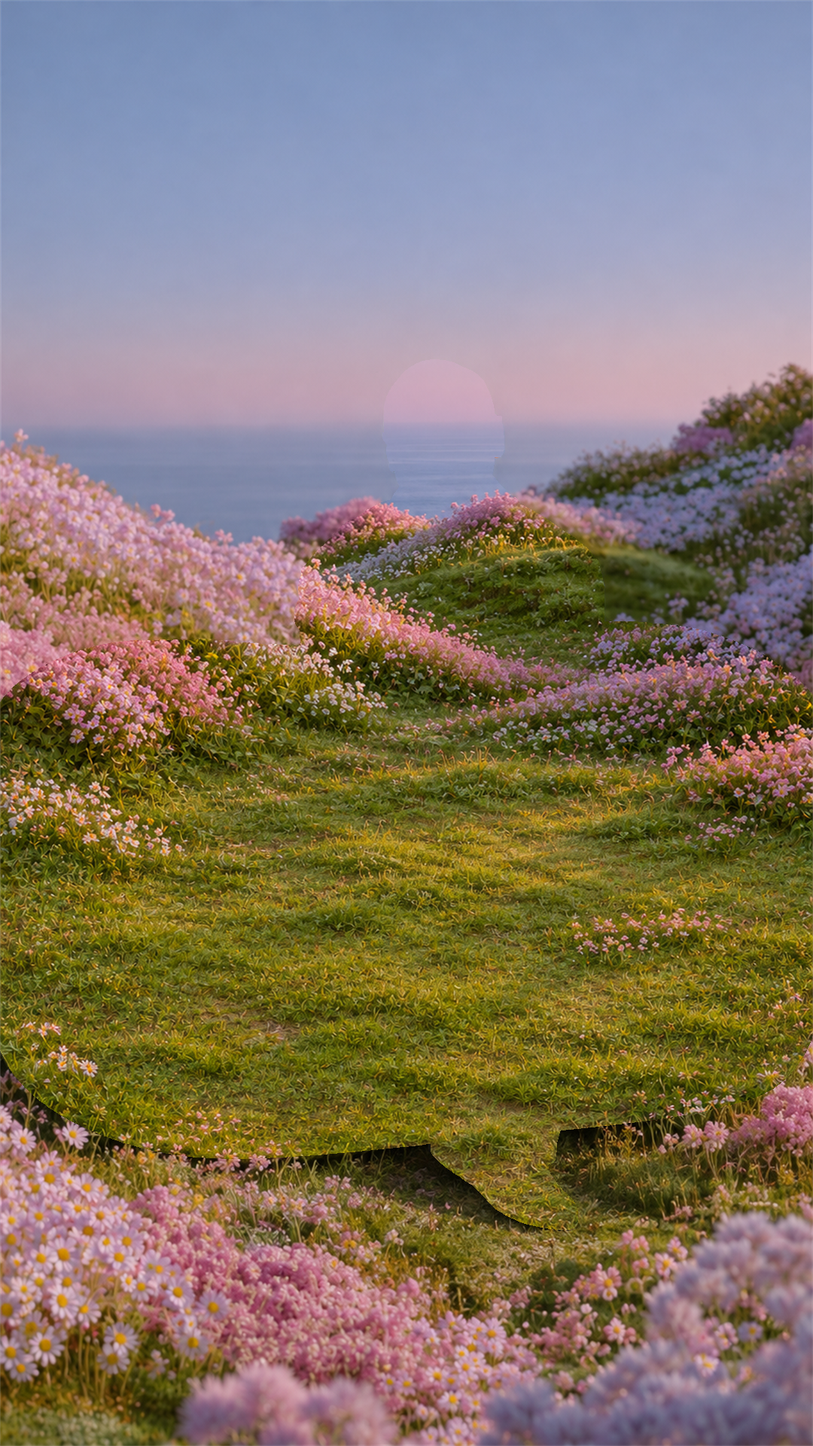
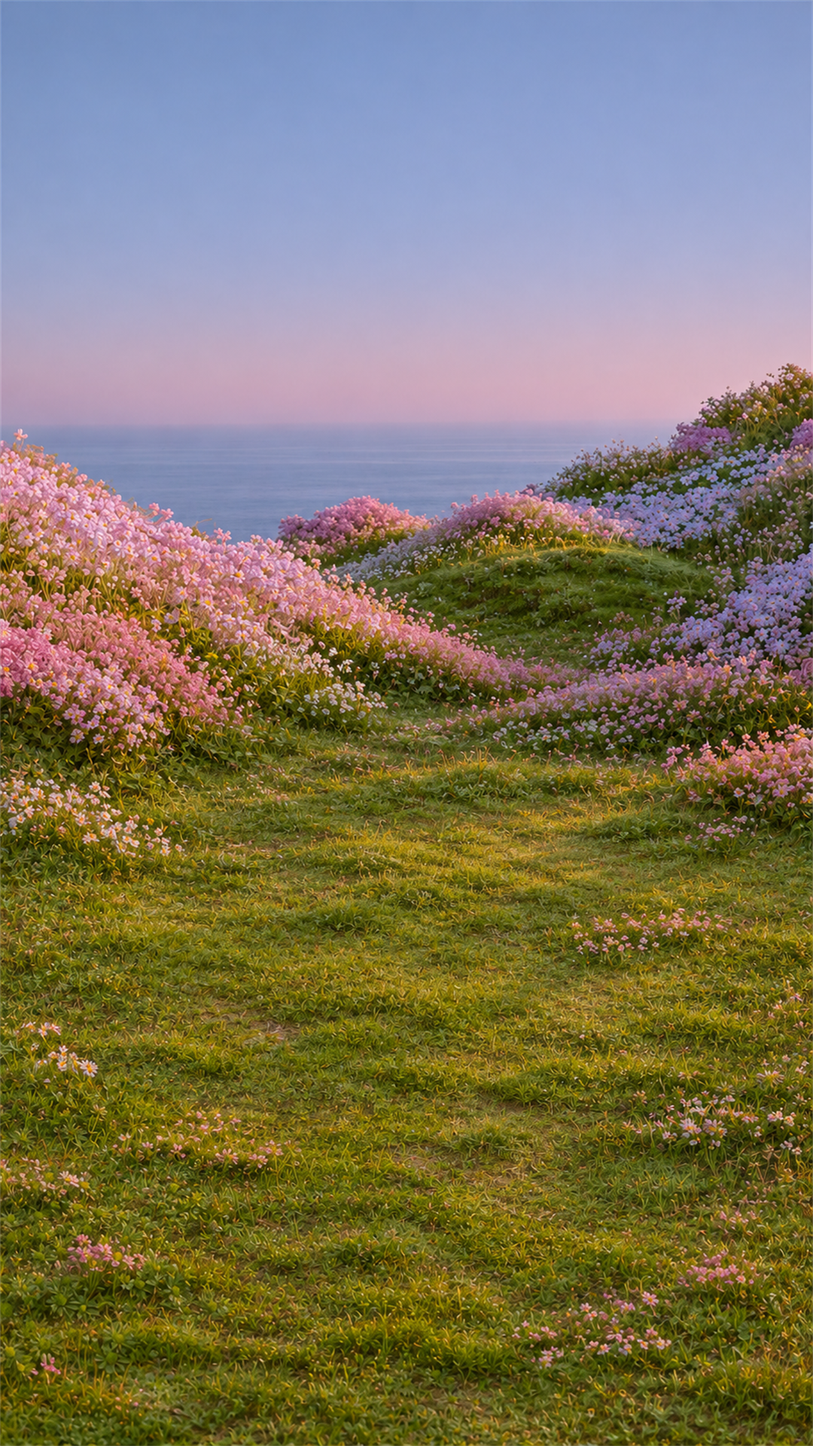
Strengthen photo parallax and remove test copy

Changed region(s): [[0.0, 0.7188, 1.0, 1.0], [0.6417, 0.25, 1.0, 0.4688], [0.0, 0.3125, 0.4583, 0.5]]

diff --git a/style.css b/style.css
@@ -17,19 +17,14 @@ button, a { -webkit-tap-highlight-color: #283d6230; touch-action: manipulation; 
 a { color: inherit; text-decoration-thickness: 1px; text-underline-offset: 4px; }
 button:focus-visible, a:focus-visible { outline: 3px solid var(--accent); outline-offset: 3px; }
 .demo { position: relative; width: min(100%, 56.25svh); min-height: 100svh; margin: auto; isolation: isolate; }
-.intro { position: absolute; top: 0; left: 0; width: 100%; z-index: 5; padding: max(22px, env(safe-area-inset-top)) max(16px, env(safe-area-inset-right)) 0 max(16px, env(safe-area-inset-left)); text-align: center; }
-h1 { margin: 0; font-size: clamp(26px, 7.7vw, 38px); line-height: 1.05; letter-spacing: -.035em; font-weight: 650; text-wrap: balance; }
-.projects { display: grid; grid-template-columns: 1fr 1fr; gap: 0 12px; margin-top: 12px; }
-.projects a { display: grid; place-items: center; min-height: 44px; font-size: 13px; font-weight: 500; overflow-wrap: anywhere; }
-.projects a:hover { color: #101d35; text-decoration-thickness: 2px; }
 .scene { position: absolute; inset: 0; overflow: hidden; container-type: size; }
-.poster, .world { position: absolute; inset: 0; width: 100%; height: 100%; transform: scale(1.04); }
+.poster, .world { position: absolute; inset: 0; width: 100%; height: 100%; transform: scale(1.2); }
 .poster, .scene-layer { object-fit: cover; object-position: center; }
 .world { --unit: max(calc(100cqw / 1080), calc(100cqh / 1920)); pointer-events: none; }
 .scene-layer { position: absolute; inset: 0; width: 100%; height: 100%; transform: translate(calc(var(--x) * var(--amp-x) * var(--unit)), calc(var(--y) * var(--amp-y) * var(--unit))); }
-.landscape { --amp-x: 2; --amp-y: 2; z-index: 0; }
-.sofa-person { --amp-x: 6; --amp-y: 4; z-index: 1; }
-.foreground { --amp-x: 18; --amp-y: 10; z-index: 2; }
+.landscape { --amp-x: -24; --amp-y: -14; z-index: 0; }
+.sofa-person { --amp-x: 36; --amp-y: 24; z-index: 1; }
+.foreground { --amp-x: 84; --amp-y: 46; z-index: 2; }
 .scene.moving .scene-layer { will-change: transform; }
 .sensor-activation { position: absolute; inset: 0; z-index: 3; display: flex; align-items: flex-end; justify-content: center; background: transparent; border: 0; color: var(--ink); padding: 24px 16px max(24px, env(safe-area-inset-bottom)); font: inherit; font-size: 12px; line-height: 1.5; cursor: pointer; }
 .sensor-activation span { max-width: 100%; padding: 8px 14px; border-radius: 20px; background: #fff9ee; text-wrap: balance; text-align: center; }
@@ -38,10 +33,6 @@ h1 { margin: 0; font-size: clamp(26px, 7.7vw, 38px); line-height: 1.05; letter-s
 .sensor-activation:focus-visible { outline-offset: -5px; }
 .sr-only { position: absolute; width: 1px; height: 1px; padding: 0; margin: -1px; overflow: hidden; clip-path: inset(50%); white-space: nowrap; border: 0; }
 @media (max-height: 680px) {
-  .intro { padding-top: max(12px, env(safe-area-inset-top)); }
-  h1 { font-size: 26px; }
-  .projects { margin-top: 4px; }
-  .projects a { font-size: 12px; }
   .sensor-activation { padding-bottom: max(12px, env(safe-area-inset-bottom)); }
 }
 @media (prefers-reduced-motion: reduce) { .scene-layer { transform: none; } }

diff --git a/index.html b/index.html
@@ -5,31 +5,22 @@
   <meta name="viewport" content="width=device-width, initial-scale=1, viewport-fit=cover">
   <meta name="theme-color" content="#899bb9">
   <meta name="description" content="Технический прототип параллакса с реакцией на наклон телефона.">
-  <title>Тест глубины — Стас Торопов</title>
+  <title>Фото — тест глубины</title>
   <link rel="preload" as="image" href="assets/poster.webp">
-  <link rel="stylesheet" href="style.css?v=3">
-  <script src="app.js?v=3" defer></script>
+  <link rel="stylesheet" href="style.css?v=4">
+  <script src="app.js?v=4" defer></script>
 </head>
 <body>
   <main class="demo">
-    <header class="intro">
-      <h1>Стас Торопов</h1>
-      <nav class="projects" aria-label="Проекты Стаса Торопова">
-        <a href="https://stastoropov.ru/">stastoropov.ru</a>
-        <a href="https://help-wedding.ru/">help-wedding.ru</a>
-        <a href="https://st-event.com/">st-event.com</a>
-        <a href="https://karaokerave.ru/">karaokerave.ru</a>
-      </nav>
-    </header>
-    <section class="scene" aria-label="Стас Торопов на диване среди цветов у моря">
-      <img class="poster" src="assets/poster.webp" width="1080" height="1920" alt="Стас Торопов на диване среди цветов у моря" fetchpriority="high">
+    <section class="scene" aria-label="Фотография с реакцией на наклон">
+      <img class="poster" src="assets/poster.webp" width="1080" height="1920" alt="Человек на диване среди цветов у моря" fetchpriority="high">
       <div class="world" aria-hidden="true" hidden>
         <img class="scene-layer landscape" src="assets/landscape.webp" width="1080" height="1920" alt="" decoding="async" draggable="false">
         <img class="scene-layer sofa-person" src="assets/sofa-person.webp" width="1080" height="1920" alt="" decoding="async" draggable="false">
         <img class="scene-layer foreground" src="assets/foreground.webp" width="1080" height="1920" alt="" decoding="async" draggable="false">
       </div>
       <p id="scene-hint" class="sr-only">Глубина — с первого взгляда.</p>
-      <button id="sensor-activation" class="sensor-activation" type="button" hidden><span>Коснись сцены для реакции на наклон</span></button>
+      <button id="sensor-activation" class="sensor-activation" type="button" aria-label="Разрешить реакцию фотографии на наклон" hidden><span>Коснись фото</span></button>
     </section>
     <p id="status" class="sr-only" role="status"></p>
   </main>

diff --git a/app.js b/app.js
@@ -44,7 +44,7 @@
         targetY = ready ? sensorY : 0;
       }
     }
-    const easing = 1 - Math.exp(-dt / 85);
+    const easing = 1 - Math.exp(-dt / 70);
     x += (targetX - x) * easing;
     y += (targetY - y) * easing;
     root.style.setProperty('--x', x.toFixed(4));
@@ -76,8 +76,8 @@
       say('Реакция на наклон включена.');
     }
     if (!baseline) baseline = { beta: event.beta, gamma: event.gamma };
-    const horizontal = delta(event.gamma, baseline.gamma) / 18;
-    const vertical = delta(event.beta, baseline.beta) / 18;
+    const horizontal = delta(event.gamma, baseline.gamma) / 8;
+    const vertical = delta(event.beta, baseline.beta) / 8;
     const angle = (screen.orientation?.angle ?? window.orientation ?? 0) * Math.PI / 180;
     sensorX = clamp(horizontal * Math.cos(angle) + vertical * Math.sin(angle));
     sensorY = clamp(vertical * Math.cos(angle) - horizontal * Math.sin(angle));

diff --git a/assets/README.md b/assets/README.md
@@ -4,15 +4,15 @@
 
 | Файл сайта | Исходный файл |
 |---|---|
-| landscape.webp | 01-landscape-preserved.png |
+| landscape.webp | 01-landscape.png |
 | sofa-person.webp | 04-sofa-person-locked.png |
 | foreground.webp | 05-foreground-preserved.png |
 | poster.webp | reference-approved.png |
 
 Имена объединённого среднего плана и переднего плана в приложенной инструкции отличаются от фактических имён в папке. Использованы фактически существующие файлы, указанные в таблице.
 
-Варианты `preserved` выбраны после сравнения сборки с одобренным кадром: RGB-значения нейтральной композиции совпадают с `reference-approved.png` попиксельно. Альфа-канал внешней кромки отличается; overscan убирает внешнюю кромку за пределы контейнера.
+В усиленном тесте используется чистый восстановленный пейзаж `01-landscape.png`: в `01-landscape-preserved.png` обнаружен остаточный полупрозрачный силуэт головы, который становится заметен при большом смещении. Объединённый слой человека с диваном сохранён без изменений. Восстановленный пейзаж отличается от оригинального фона; нейтральная сборка теперь не заявляется попиксельной копией Hero.png.
 
-Три плана совмещаются по единому холсту. Герой с диваном — один слой. Общий overscan 1.04; амплитуды в пикселях исходного холста: фон 2/2, средний план 6/4, передний план 18/10. Амплитуды пересчитываются CSS относительно масштаба контейнера. Деформаций, вращения, изменения лица, фильтров или раздельного масштабирования нет.
+Три плана совмещаются по единому холсту. Герой с диваном — один слой. После отзыва о слишком слабом движении выполнена проверка увеличенных амплитуд на крайних положениях. Общий overscan 1.2; амплитуды в пикселях исходного холста: фон -24/-14, средний план 36/24, передний план 84/46. Фон движется в противоположную сторону. Полная амплитуда достигается при отклонении на 8°, интерполяция 70 мс. Амплитуды пересчитываются CSS относительно масштаба контейнера. Деформаций, вращения, изменения лица, фильтров или раздельного масштабирования нет.
 
 Статическая заставка показывается до декодирования всех слоёв, при ошибке загрузки, без JavaScript и при prefers-reduced-motion. На широких экранах сохраняется вертикальная сцена.

diff --git a/README.md b/README.md
@@ -4,7 +4,7 @@
 
 Движение запускается сразу при открытии. Если браузер разрешает получать ориентацию без запроса, реакция на наклон подключается автоматически. В браузерах, требующих разрешение, появится подсказка коснуться самой сцены. После касания подтвердите системный запрос. Отдельной панели кнопок нет; центр определяется автоматически.
 
-Проверка механики на предоставленной пользователем сцене: пейзаж, герой с диваном и передние цветы. Это ещё не финальное оформление четырёх направлений. Исходные изображения проекта не изменены; описания проектов и оформление навигации будут уточнены отдельно. Происхождение слоёв и параметры сборки описаны в `assets/README.md`.
+Проверка механики на предоставленной пользователем сцене: пейзаж, герой с диваном и передние цветы. На экране только фотография: имя, ссылки и тестовая панель убраны по просьбе пользователя. Происхождение слоёв и параметры сборки описаны в `assets/README.md`. Движение усилено после проверки углов кадра, чувствительность увеличена до полного диапазона при 8° наклона.
 
 ## Запуск
 
@@ -22,7 +22,7 @@
 - Поворот в горизонтальное положение: новая калибровка.
 - Уход в другую вкладку: движение останавливается, датчик отключается. Возврат: тихое переподключение и новая калибровка. Автоматическая анимация затухает за 3,6 секунды и не зацикливается.
 - При системном уменьшении движения сцена статична.
-- Четыре ссылки неподвижны и доступны независимо от разрешения.
+- На тестовом экране нет заголовка, сайтов или статуса. Подсказка «Коснись фото» появляется только если браузеру нужно разрешение на датчики; после ответа исчезает.
 - Совмещение слоёв, лицо и положение ног при крайних наклонах; отсутствие пустых кромок.
 - До загрузки слоёв, при ошибке изображений, без JavaScript и в режиме уменьшения движения видна статическая заставка.
 
